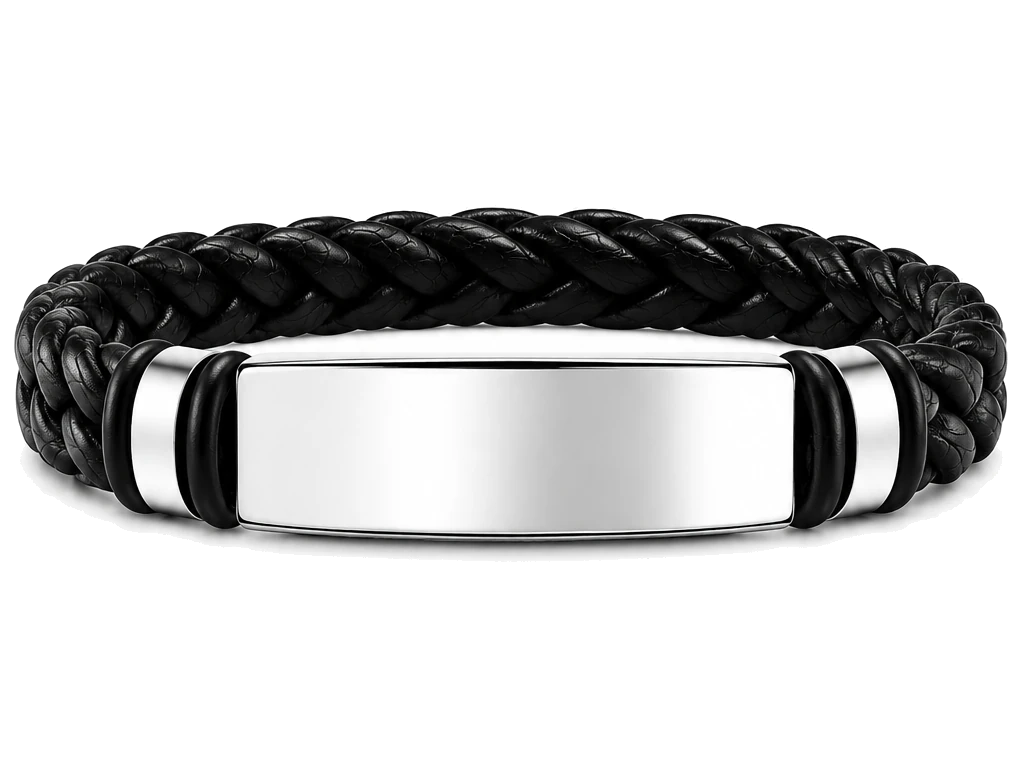
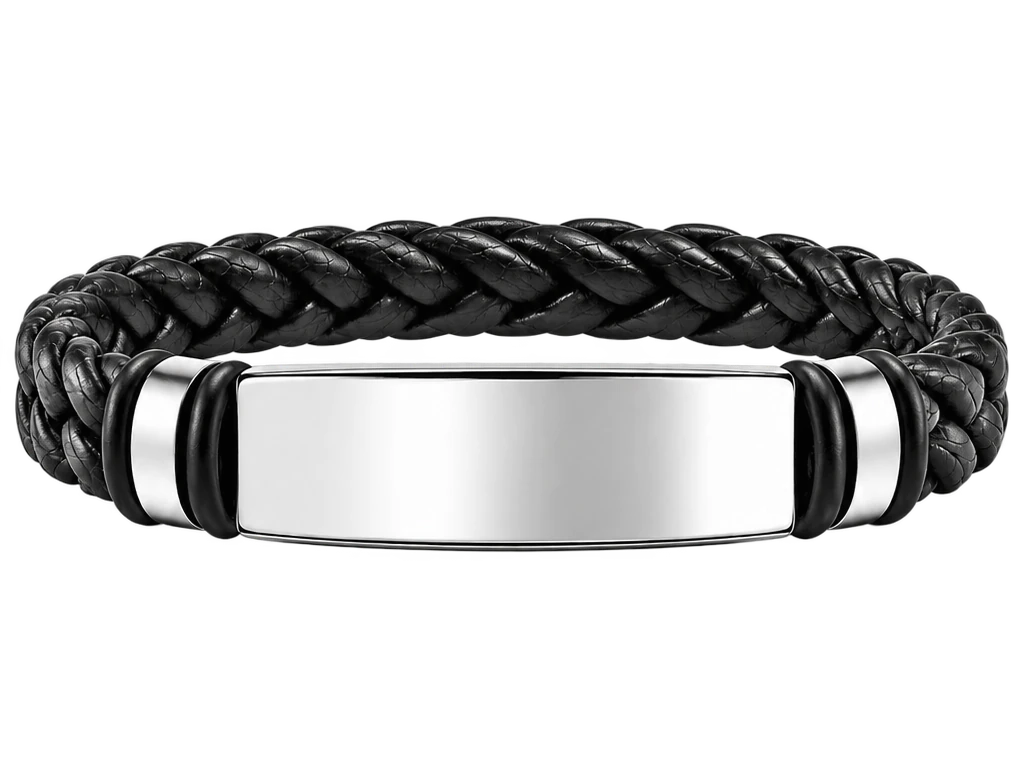
Engraved wallet and bracelet use the transparent photos; wallet card shows its front
The one-time Yoryo step now designs on the owner's transparent photos and
swaps them into products made before, with their zones. A new admin option,
Portada en Crear: la foto de tienda, lets the Crear card show the store
photo (the wallet's zipper front) with the design photo on hover. The
template save button no longer overflows the studio panel.

Changed region(s): [[0.0, 0.25, 1.0, 0.75]]

diff --git a/src/pages/admin/plantillasYoryo/grabadosYoryo.js b/src/pages/admin/plantillasYoryo/grabadosYoryo.js
@@ -14,14 +14,17 @@ import { tamanoParaCaja } from './plantillasACapas.mjs';
  * a ellos. Los de la tienda se siguen vendiendo sin grabar, al mismo precio.
  * Corre con la sesión del admin, desde ImportarPlantillasYoryo.
  *
- * Las fotos para diseñar están en public/yoryo/grabados/ (la cara lisa sin
- * fondo; la esclava de frente, con la placa recta). Las zonas se midieron
- * sobre ellas. Las medidas en cm son ESTIMADAS (el taller todavía no las
+ * Las fotos para diseñar están en public/yoryo/grabados/: las transparentes
+ * que mandó el dueño (la cara lisa de cada color y la esclava de frente, con
+ * la placa recta), recortadas al producto. Las zonas se midieron sobre ellas. Las medidas en cm son ESTIMADAS (el taller todavía no las
  * confirmó): se corrigen en la ficha, pestaña Diseño, con la línea de
  * referencia.
  */
 
 const BASE = '/yoryo/grabados';
+// Qué fotos para diseñar lleva el producto: si cambian, volver a correrlo las
+// pone (con sus zonas) en el producto que ya existe.
+const VERSION_FOTOS = 'transparentes-2026-10-29';
 const BILLETERA_TIENDA = 'NEtavILSA0EoxJgGD7ou';
 const ESCLAVA_TIENDA = 'WAxcEpXkgODfj0JBc4qB';
 export const IDS_GRABADOS = { billetera: 'yoryo-crear-billetera', esclava: 'yoryo-crear-esclava' };
@@ -35,25 +38,28 @@ const PIEZAS = {
   billetera: {
     id: IDS_GRABADOS.billetera, tiendaId: BILLETERA_TIENDA, nombre: 'Billetera Yoryo Cónsul grabada',
     vista: { id: 'frente', nombre: 'Cara lisa' },
-    // Por color: su foto para diseñar y la del frente con cierre (va a la galería).
+    // Por color: su foto para diseñar y la del frente con cierre (la portada).
     fotos: {
       'Deep Blue': { diseno: 'billetera-deep-blue.webp', cierre: 'billetera-deep-blue-cierre.webp' },
       'Marrón Coñac': { diseno: 'billetera-marron-conac.webp', cierre: 'billetera-marron-conac-cierre.webp' },
       'Negro Azabache': { diseno: 'billetera-negro-azabache.webp', cierre: 'billetera-negro-azabache-cierre.webp' },
     },
-    // Sobre la foto de 977 × 1214 (la cara va de 45,45 a 932,1169): abajo a la
-    // derecha, como en las fotos de muestra. Cara de unos 9 cm de ancho (estimado).
-    zona: { id: 'billetera-grabado', nombre: 'Grabado', x: 559 / 977, y: 842 / 1214, w: 302 / 977, proporcion: 0.75, angulo: 0 },
-    referencia: { x1: 45 / 977, y1: 600 / 1214, x2: 932 / 977, y2: 600 / 1214, cm: 9 },
+    // La tarjeta de Crear la muestra de frente (con el cierre); se graba atrás.
+    portadaDeFrente: true,
+    // Sobre la foto de 989 × 1224 (la cara va de 45,45 a 944,1179; las de los
+    // otros colores tienen el mismo encuadre): abajo a la derecha, como en las
+    // fotos de muestra. Cara de unos 9 cm de ancho (estimado).
+    zona: { id: 'billetera-grabado', nombre: 'Grabado', x: 566 / 989, y: 848 / 1224, w: 306 / 989, proporcion: 0.75, angulo: 0 },
+    referencia: { x1: 45 / 989, y1: 600 / 1224, x2: 944 / 989, y2: 600 / 1224, cm: 9 },
   },
   esclava: {
     id: IDS_GRABADOS.esclava, tiendaId: ESCLAVA_TIENDA, nombre: 'Esclava Yoryo grabada',
     vista: { id: 'frente', nombre: 'Placa' },
     fotos: { 'Negro Acero': { diseno: 'esclava-negro-acero.webp' } },
-    // Sobre la foto de 1024 × 768: la placa va de x 240 a 790 y de y 360 a 540;
+    // Sobre la foto de 1024 × 768: la placa va de x 238 a 790 y de y 370 a 540;
     // la zona queda adentro, sin tocar el borde. Placa de unos 4.5 cm (estimado).
-    zona: { id: 'esclava-placa', nombre: 'Placa', x: 270 / 1024, y: 383 / 768, w: 484 / 1024, proporcion: 128 / 484, angulo: 0 },
-    referencia: { x1: 240 / 1024, y1: 447 / 768, x2: 790 / 1024, y2: 447 / 768, cm: 4.5 },
+    zona: { id: 'esclava-placa', nombre: 'Placa', x: 268 / 1024, y: 390 / 768, w: 492 / 1024, proporcion: 130 / 492, angulo: 0 },
+    referencia: { x1: 238 / 1024, y1: 455 / 768, x2: 790 / 1024, y2: 455 / 768, cm: 4.5 },
   },
 };
 
@@ -178,14 +184,8 @@ async function simboloEnColor(nombre, color) {
 
 const mismoColor = (a, b) => String(a || '').trim().toLowerCase() === String(b || '').trim().toLowerCase();
 
-/** Crea la pieza en Crear si falta (id fijo): fotos por color, vista, zona y referencia. */
-async function crearPieza(clave, pieza, tienda, onPaso) {
-  const existe = await getProduct(pieza.id);
-  if (existe.data && existe.data.deleted !== true) {
-    onPaso(`${pieza.nombre}: ya existía`);
-    return;
-  }
-  onPaso(`${pieza.nombre}: subiendo las fotos…`);
+/** Sube la foto para diseñar de cada color. Devuelve { colores, principal }. */
+async function subirFotosDeDiseno(clave, pieza, tienda) {
   const colores = {};
   let principal = null;
   for (const v of tienda.variants || []) {
@@ -196,6 +196,42 @@ async function crearPieza(clave, pieza, tienda, onPaso) {
     colores[v.id] = { fotos: { [pieza.vista.id]: url } };
     if (!principal || String(v.id) === String(tienda.defaultVariantId)) principal = { url, ...(await medidas(blob)) };
   }
+  return { colores, principal };
+}
+
+/**
+ * Crea la pieza en Crear si falta (id fijo): fotos por color, vista, zona y
+ * referencia. Si ya existe con otras fotos para diseñar (VERSION_FOTOS), las
+ * cambia con sus zonas y conserva los cm que haya puesto el admin.
+ */
+async function crearPieza(clave, pieza, tienda, onPaso) {
+  const existe = await getDocument('productos_wala', pieza.id);
+  if (existe.data && existe.data.deleted !== true) {
+    const pb = existe.data.prendaBase || {};
+    if (pb.versionFotos === VERSION_FOTOS) {
+      onPaso(`${pieza.nombre}: ya existía`);
+      return;
+    }
+    onPaso(`${pieza.nombre}: cambiando las fotos para diseñar…`);
+    const { colores, principal } = await subirFotosDeDiseno(clave, pieza, tienda);
+    const v0 = pb.vistas?.[0] || {};
+    const cm = Number(v0.referencia?.cm) || pieza.referencia.cm;
+    await updateProductField(pieza.id, {
+      prendaBase: {
+        ...pb,
+        vistas: [{
+          ...v0, ...pieza.vista, imagen: principal.url, anchoImg: principal.ancho, altoImg: principal.alto,
+          referencia: { ...pieza.referencia, cm }, zonas: [pieza.zona],
+        }, ...(pb.vistas || []).slice(1)],
+        colores: Object.fromEntries(Object.entries(colores).map(([vid, c]) => [vid, { ...(pb.colores?.[vid] || {}), ...c }])),
+        ...(pieza.portadaDeFrente && { portadaTienda: true }),
+        versionFotos: VERSION_FOTOS,
+      },
+    });
+    return;
+  }
+  onPaso(`${pieza.nombre}: subiendo las fotos…`);
+  const { colores, principal } = await subirFotosDeDiseno(clave, pieza, tienda);
   const variantes = (tienda.variants || []).map((v) => ({ id: v.id, name: v.name, colorHex: v.colorHex, imageUrl: '', images: [], sizes: [] }));
   onPaso(`${pieza.nombre}: creando…`);
   await createProduct({
@@ -217,6 +253,8 @@ async function crearPieza(clave, pieza, tienda, onPaso) {
       tipo: 'producto',
       tecnica: 'laser',
       soloPlantillas: true,
+      ...(pieza.portadaDeFrente && { portadaTienda: true }),
+      versionFotos: VERSION_FOTOS,
       vistas: [{
         ...pieza.vista, imagen: principal.url, anchoImg: principal.ancho, altoImg: principal.alto,
         referencia: pieza.referencia, zonas: [pieza.zona],
@@ -253,17 +291,25 @@ async function plantillasYFotos(clave, pieza, tienda, onPaso) {
   }
   await guardarPlantillasDelProducto(pieza.id, hechas);
 
+  // La foto de tienda de cada color: grabada con la primera plantilla o, en
+  // la billetera, de frente (su portada en Crear) con la grabada en la galería.
   onPaso(`${pieza.nombre}: fotos de cada color…`);
   const variants = [];
   for (const v of data.variants || []) {
     const c = cfg.colores.find((x) => String(x.id) === String(v.id));
     const deTienda = (tienda.variants || []).find((x) => String(x.id) === String(v.id));
-    const imageUrl = c ? await fotoDeTiendaConPlantilla({ prendaId: pieza.id, cfg: { vistas: cfg.vistas, laser: true }, color: c, plantilla: hechas[0] }) : v.imageUrl;
+    const grabada = c ? await fotoDeTiendaConPlantilla({ prendaId: pieza.id, cfg: { vistas: cfg.vistas, laser: true }, color: c, plantilla: hechas[0] }) : v.imageUrl;
     const cierre = Object.entries(pieza.fotos).find(([nombre]) => mismoColor(nombre, v.name))?.[1]?.cierre;
     const urlCierre = cierre ? await subir(pieza.id, await leerBlob(`${BASE}/${cierre}`), `${clave}-${v.id}-cierre`) : '';
     // Las de la tienda sin su frente con cierre (lo pone galeriaDeTienda): no se repite al volver a correrlo.
     const deLaTienda = (deTienda?.images || []).filter((u) => !String(u).includes('-cierre'));
-    variants.push({ ...v, imageUrl, images: [urlCierre, ...deLaTienda].filter(Boolean), cierre: urlCierre });
+    const deFrente = pieza.portadaDeFrente && urlCierre;
+    variants.push({
+      ...v,
+      imageUrl: deFrente ? urlCierre : grabada,
+      images: (deFrente ? [grabada, ...deLaTienda] : [urlCierre, ...deLaTienda]).filter(Boolean),
+      cierre: urlCierre,
+    });
   }
   await updateProductField(pieza.id, { variants: variants.map(({ cierre: _cierre, ...v }) => v) });
   return { cfg, variants };

diff --git a/src/pages/admin/prendasCrear/PersonalizacionPrenda.jsx b/src/pages/admin/prendasCrear/PersonalizacionPrenda.jsx
@@ -50,6 +50,9 @@ export const prendaBaseParaGuardar = (valor, variantes) => {
     ...(leerTecnica(valor?.tecnica) !== 'impresion' && { tecnica: leerTecnica(valor.tecnica) }),
     ...(leerPlantillas(valor?.plantillas).length && { plantillas: leerPlantillas(valor.plantillas) }),
     ...(valor?.soloPlantillas === true && { soloPlantillas: true }),
+    ...(valor?.portadaTienda === true && { portadaTienda: true }),
+    // Lo pone el botón de una vez de Yoryo (qué fotos para diseñar tiene): se conserva.
+    ...(typeof valor?.versionFotos === 'string' && valor.versionFotos && { versionFotos: valor.versionFotos }),
   };
 };
 
@@ -389,6 +392,13 @@ const PersonalizacionPrenda = ({ valor, variantes, varianteDefecto, draftId, onC
           <span>
             <strong>Solo con sus plantillas</strong>
             <small>El cliente elige una plantilla y cambia sus textos; no sube imágenes ni diseña aparte (el tomatodo).</small>
+          </span>
+        </label>
+        <label className={styles.casilla}>
+          <input type="checkbox" checked={valor?.portadaTienda === true} onChange={(e) => cambiar({ portadaTienda: e.target.checked })} />
+          <span>
+            <strong>Portada en Crear: la foto de tienda</strong>
+            <small>La tarjeta de Crear muestra la foto de tienda del color principal (la billetera de frente) en vez de la foto para diseñar, que se ve al pasar el mouse.</small>
           </span>
         </label>
       </section>

diff --git a/src/componentes/kit/adaptadoresCrear.js b/src/componentes/kit/adaptadoresCrear.js
@@ -13,15 +13,19 @@ import { leerPrendaBase, colorDisponible, fondoMuestra, precioBase, precioPerson
  * tienda) y los lados que se diseñan en la línea de la categoría.
  */
 export const prendaCrearDesdeProducto = (prenda = {}) => {
-  const { vistas, colores, tipo } = leerPrendaBase(prenda);
+  const { vistas, colores, tipo, portadaTienda } = leerPrendaBase(prenda);
   const lados = vistas.map((v) => v.nombre).filter(Boolean).join(' + ');
+  // Con "Portada en Crear: la foto de tienda", la del color principal va
+  // adelante y la foto para diseñar al pasar el mouse.
+  const principal = (prenda.variants || []).find((v) => String(v.id) === String(prenda.defaultVariantId)) || prenda.variants?.[0];
+  const portada = portadaTienda ? principal?.imageUrl : '';
   return {
     id: prenda.id,
     nombre: prenda.name,
     // Un producto (cuadro, tomatodo): Crear habla de "productos" y "piezas".
     accesorio: tipo === 'producto',
-    imagen: vistas[0]?.imagen,
-    imagenHover: vistas[1]?.imagen,
+    imagen: portada || vistas[0]?.imagen,
+    imagenHover: portada ? vistas[0]?.imagen : vistas[1]?.imagen,
     categoria: [prenda.visible === false && 'Borrador', lados].filter(Boolean).join(' · '),
     colores: [...new Set(colores.filter((c) => colorDisponible(c, vistas)).map(fondoMuestra))],
     precio: precioBase(prenda),

diff --git a/src/componentes/kit/piezas/Estudio.jsx b/src/componentes/kit/piezas/Estudio.jsx
@@ -1182,9 +1182,11 @@ export function GuardarComoPlantilla({ grupos = [], actual, onGuardar, ocupado =
       <p className={s.panelAyuda}><Texto>Solo la ven los administradores. La plantilla aparece en "Empieza con un diseño" de este producto.</Texto></p>
       {actual && (
         <>
+          {/* El nombre va aparte: en el botón, uno largo lo sacaba del panel. */}
+          <p className={s.panelAyuda}><Texto>{`Partiste de «${actual.nombre}».`}</Texto></p>
           <BotonEstudio tamano="sm" bloque icono={<Check aria-hidden="true" />} cargando={ocupado} disabled={ocupado}
             onClick={() => onGuardar?.({ id: actual.id, nombre: actual.nombre, grupo: actual.grupo })}>
-            <Texto>{`Guardar cambios en «${actual.nombre}»`}</Texto>
+            <Texto>Guardar cambios en esta plantilla</Texto>
           </BotonEstudio>
           <p className={s.panelAyuda}><Texto>O guárdala como otra plantilla:</Texto></p>
         </>

diff --git a/src/utils/prendaBase.js b/src/utils/prendaBase.js
@@ -24,6 +24,8 @@
  *                                      // diseños para empezar de este producto
  *     soloPlantillas: true,            // solo se hace con sus plantillas (el
  *                                      // cliente cambia los textos, no diseña aparte)
+ *     portadaTienda: true,             // la tarjeta de Crear lleva la foto de tienda
+ *                                      // del color principal (la billetera de frente)
  *
  * Los bicolores llevan una costura al medio, así que pueden tener sus propias
  * zonas (zonasDeVista): las de ese color, si tiene; si no, las de todos los
@@ -399,6 +401,7 @@ export const leerPrendaBase = (producto) => {
     tecnica: leerTecnica(cfg.tecnica),
     plantillas: leerPlantillas(cfg.plantillas),
     soloPlantillas: cfg.soloPlantillas === true,
+    portadaTienda: cfg.portadaTienda === true,
   };
 };
 

diff --git a/docs/plantillas-yoryo.md b/docs/plantillas-yoryo.md
@@ -76,7 +76,7 @@ Las imágenes de las plantillas viven en `productos_v2/{id}/plantillas/`, así l
 
 **Renombrar, cambiar de grupo o quitar:** en la pestaña Plantillas de su ficha.
 
-**Cambiar una plantilla:** en esa pestaña, **Editar** la abre (`/crear/:id?editarPlantilla=…`) con el estudio completo, aun en productos "solo con plantillas". **Guardar cambios en «…»** la reemplaza en su mismo lugar. También, si un admin parte de una plantilla en el estudio, puede guardar sus cambios en ella o guardarla como nueva.
+**Cambiar una plantilla:** en esa pestaña, **Editar** la abre (`/crear/:id?editarPlantilla=…`) con el estudio completo, aun en productos "solo con plantillas". **Guardar cambios en esta plantilla** la reemplaza en su mismo lugar. También, si un admin parte de una plantilla en el estudio, puede guardar sus cambios en ella o guardarla como nueva.
 
 ## Crear los productos (una sola vez)
 
@@ -124,5 +124,7 @@ En **Admin → Catálogo → Importar plantillas de cuadros**, paso 6, **Crear b
 - pone en cada color la foto de la tarjeta ya grabada y la galería: el frente con cierre y las fotos de la tienda. El frente con cierre también se agrega a la billetera de la tienda;
 - deja la esclava de la tienda a la vista (antes solo iba en los combos);
 - arma los combos Ónix, Oro y Medianoche como packs de Crear: el reloj **tal cual** en su color (pieza fija) y la billetera y la esclava para grabar, al precio del combo. El botón **Personalizar** de cada combo de la tienda lleva a su pack.
+
+La tarjeta de la billetera en Crear va de frente (con el cierre) gracias a **Portada en Crear: la foto de tienda** (pestaña Diseño, junto a *Solo con sus plantillas*); al pasar el mouse se ve la cara lisa. Volver a correr el paso pone las fotos para diseñar transparentes si el producto tenía las de antes (`prendaBase.versionFotos`), con sus zonas y sin tocar los cm.
 
 Las fotos para diseñar y los símbolos están en `public/yoryo/grabados/` y se pueden borrar después de correrlo. **Las medidas en cm son estimadas** (cara de la billetera 9 cm, placa 4.5 cm): cuando el taller las confirme, se corrigen en la ficha de cada uno, pestaña Diseño, con la línea de referencia.
